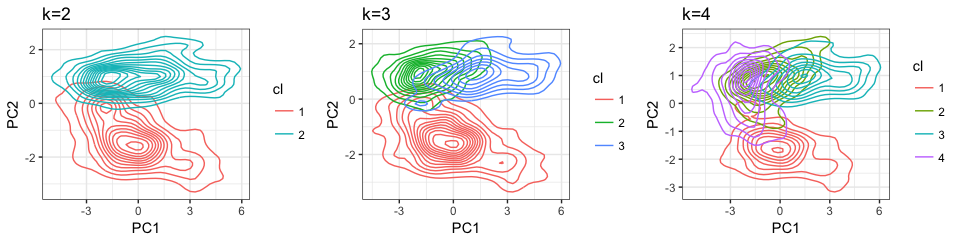
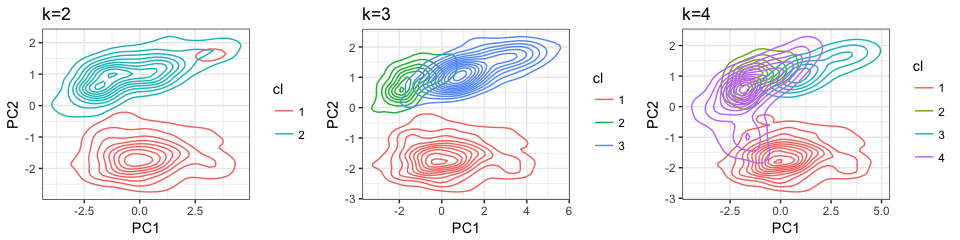
Checked merge success. Corrected a fe typos. Added theme_bw() to ggpolots to ensure consistency.

diff --git a/exploratory_cat_data_analysis.md b/exploratory_cat_data_analysis.md
@@ -11,7 +11,7 @@ Now that we've had a look at the data, and dived into the numerical analysis. Le
 Categorical variables
 ---------------------
 
-The transformation of the categorical varibles are enclosed in the **transform.R source** code. All Quality variables which had the same ordered levels that ranked the quality of the feature from None to Excellent were label encoded (maped to an integer representation) that reflected the order of the level. 0 = None, incrementally until 5 = Excellent. Additionally, there were varaibles that, by nature & definition, were ordered. These variables were also label encoded.
+The transformation of the categorical variables are enclosed in the **transform.R source** code. All Quality variables which had the same ordered levels that ranked the quality of the feature from None to Excellent were label encoded (maped to an integer representation) that reflected the order of the level. 0 = None, incrementally until 5 = Excellent. Additionally, there were varaibles that, by nature & definition, were ordered. These variables were also label encoded.
 
 After considering the NA values in the dataset, we also came across a feature that was overwhlemingly populated by a single level. The Utilities variable, as we'll see displayed all house, except one, having all public utilities. Thus, this variable doesn't offer much enrichment for Preditcion & therefore removed. (Removed in feature\_eng.R code).
 
@@ -19,25 +19,25 @@ After considering the NA values in the dataset, we also came across a feature th
     ## AllPub NoSeWa 
     ##   2916      1
 
-Visualization of Categorical Varibles (Boxplot)
------------------------------------------------
+Visualization of Categorical Variables (Boxplot)
+------------------------------------------------
 
 Let's visualize the boxplot of the categorical variables.
 
     ## Loading required package: grid
 
-![](exploratory_cat_data_analysis_files/figure-markdown_github/unnamed-chunk-2-1.png)
+![](exploratory_cat_data_analysis_files/figure-markdown_github-ascii_identifiers/unnamed-chunk-2-1.png)
 
 From the above graphs, there are definitely features that have similar shapes. However, there are also features that display significant variation and will be explored in more detail.
 
 When reading **data\_descr.txt** it is clear that some variables are highly correlated purely by definition. Let's explore those in detail and decide which to keep.
 
-Highly correlated by definition, results in the following 'grouped' variables: \* Property Variables: Street, Alley, LotShape, LandContour, LandSlope, LotConfig \* Dwelling/ Living Variables: BldgType, HouseStyle, MSSubClass, MSZoning, Neighborhood \* Utility: Utilities, Electrical \* Overall Quality & Condition: OverallQual, OverallCond, Functional \* Material of House: OverallQual, RoofMatl, Exterior1st, Exterior2nd, MasVnrType, ExterQual, ExterCond, Foundation \* Roof: RoofStyle, RoofMatl \* Basement: BsmtQual, BsmtCond, BsmtExposure, BsmtFinType1, BsmtFinType2 \* Heating: Heating, HeatingQC, CentralAir, FireplaceQu \* Garage: GarageType, GarageFinish, GarageQual, GarageCond, PavedDrive \* Misc: PoolQC, Fence, MiscFeature, KitchenQual \* Nature of Sale: SaleType, SaleCondition
+Highly correlated by definition, results in the following 'grouped' variables: *Property Variables: Street, Alley, LotShape, LandContour, LandSlope, LotConfig *Dwelling/ Living Variables: BldgType, HouseStyle, MSSubClass, MSZoning, Neighborhood *Utility: Utilities, Electrical *Overall Quality & Condition: OverallQual, OverallCond, Functional *Material of House: OverallQual, RoofMatl, Exterior1st, Exterior2nd, MasVnrType, ExterQual, ExterCond, Foundation *Roof: RoofStyle, RoofMatl *Basement: BsmtQual, BsmtCond, BsmtExposure, BsmtFinType1, BsmtFinType2 *Heating: Heating, HeatingQC, CentralAir, FireplaceQu *Garage: GarageType, GarageFinish, GarageQual, GarageCond, PavedDrive *Misc: PoolQC, Fence, MiscFeature, KitchenQual \*Nature of Sale: SaleType, SaleCondition
 
 Correlation of Label Encoded Features
 -------------------------------------
 
-Once varaiables had been label encoded, we could develop a Correlation Matrix to display the relationship between these variables.
+Once variables had been label encoded, we could develop a Correlation Matrix to display the relationship between these variables.
 
     ##        set_id            Id    MSSubClass      MSZoning   LotFrontage 
     ##             0             0             0             4           486 
@@ -76,7 +76,7 @@ Once varaiables had been label encoded, we could develop a Correlation Matrix to
 
     ## [1] 1460   21
 
-![](exploratory_cat_data_analysis_files/figure-markdown_github/unnamed-chunk-3-1.png)
+![](exploratory_cat_data_analysis_files/figure-markdown_github-ascii_identifiers/unnamed-chunk-3-1.png)
 
 From the above correlations, we can see a number of features which are strongly correlated to eachother. It seems to be a trend (intuitively) that the Quality and Condition of a feature show strong relationships. On top of that, we can see that BsmtQual had a strong relationship to KitchenQual, and ExterQual show significant relationships to BsmtQual, HeatingQC, KitchenQual, GarageFinish. We'll explore these relationships below.
 
@@ -91,7 +91,7 @@ Let's visualize these relationships:
     ## 
     ##     combine
 
-![](exploratory_cat_data_analysis_files/figure-markdown_github/unnamed-chunk-4-1.png)
+![](exploratory_cat_data_analysis_files/figure-markdown_github-ascii_identifiers/unnamed-chunk-4-1.png)
 
 From the above graphs, we can see a very clear and strong postive linear relationship between the feature and SalesPrice.
 
@@ -105,7 +105,7 @@ To further explore the relationships between 2 categorical features, we will loo
     ##         xName          yName Nx Ny tauxy tauyx
     ## 1 df$BsmtQual df$KitchenQual  5  5 0.252 0.217
 
-From the above table, we can see that there is an equal predictive relationship between these to features. But seems to hint that knowledge of the BsmtQual is predictive (more so) of the KitchenQual - however, not significantly enough to throw away either.
+From the above table, we can see that there is an equal predictive relationship between these two features. But seems to hint that knowledge of the BsmtQual is predictive (more so) of the KitchenQual - however, not significantly enough to throw away either.
 
     ##          xName       yName Nx Ny tauxy tauyx
     ## 1 df$ExterQual df$BsmtQual  4  5 0.267 0.354
@@ -124,9 +124,9 @@ A surprising relationship is that of ExterQual to KitchenQual.
 Feature Importance: Random Forest
 ---------------------------------
 
-Let's look at a Random Forest model that will highlight the importnat features taht form part of our dataset, and potentially inform our prediction models.
+Let's look at a Random Forest model that will highlight the important features that form part of our dataset, and potentially inform our prediction models.
 
-    ## randomForest 4.6-12
+    ## randomForest 4.6-14
 
     ## Type rfNews() to see new features/changes/bug fixes.
 
@@ -145,85 +145,85 @@ Let's look at a Random Forest model that will highlight the importnat features t
     ## 
     ##     margin
 
-![](exploratory_cat_data_analysis_files/figure-markdown_github/unnamed-chunk-7-1.png)
+![](exploratory_cat_data_analysis_files/figure-markdown_github-ascii_identifiers/unnamed-chunk-7-1.png)
 
     ##                  %IncMSE IncNodePurity
     ## set_id         0.0000000  0.000000e+00
-    ## Id            -3.1998269  1.539335e-01
-    ## MSSubClass    25.2818078  9.575999e-01
-    ## MSZoning       7.3779648  2.015324e-01
-    ## LotArea       16.8485023  5.270363e-01
-    ## Street        -0.1417445  3.034545e-03
-    ## Alley          1.0099072  2.530234e-02
-    ## LotShape       4.2051144  4.250637e-02
-    ## LandContour    3.5905865  4.865746e-02
-    ## Utilities      0.0000000  7.620959e-05
-    ## LotConfig      0.7733765  4.500417e-02
-    ## LandSlope      3.0722900  2.380855e-02
-    ## Neighborhood  33.5387965  6.043275e+00
-    ## Condition1     1.3521792  5.921048e-02
-    ## Condition2    -1.8089661  5.282765e-03
-    ## BldgType       5.1989742  3.639135e-02
-    ## HouseStyle     9.5126045  1.027178e-01
-    ## OverallQual   25.4902774  9.468594e+00
-    ## OverallCond   12.1645849  3.057212e-01
-    ## YearBuilt     10.4193034  1.329869e+00
-    ## YearRemodAdd  13.8921416  3.270326e-01
-    ## RoofStyle      4.7264317  4.399700e-02
-    ## RoofMatl      -1.0818364  1.158568e-02
-    ## Exterior1st   10.5750154  3.113297e-01
-    ## Exterior2nd   10.8814955  3.234202e-01
-    ## ExterQual     12.2109684  3.438109e+00
-    ## ExterCond      1.6275814  6.928481e-02
-    ## Foundation     4.2013747  1.373012e-01
-    ## BsmtQual       7.5507319  8.213978e-01
-    ## BsmtCond       7.4539367  7.613410e-02
-    ## BsmtExposure   8.1729894  7.334197e-02
-    ## BsmtFinType1  13.6084328  1.466863e-01
-    ## BsmtFinSF1    20.6977131  6.387216e-01
-    ## BsmtFinType2   0.7154489  2.808221e-02
-    ## BsmtFinSF2    -0.1261153  2.164319e-02
-    ## BsmtUnfSF      8.2819855  1.978614e-01
-    ## TotalBsmtSF   24.9647928  1.487479e+00
-    ## Heating       -1.3910126  1.807560e-02
-    ## HeatingQC      6.3755307  7.962922e-02
-    ## CentralAir     7.6118287  3.529941e-01
-    ## x_1stFlrSF    25.5348777  1.405099e+00
-    ## x_2ndFlrSF    17.4078308  5.214011e-01
-    ## LowQualFinSF  -0.3633982  8.676180e-03
-    ## GrLivArea     33.4175965  5.136228e+00
-    ## BsmtFullBath   8.9385243  6.515627e-02
-    ## BsmtHalfBath   0.1444322  9.021967e-03
-    ## FullBath       8.7722802  6.254118e-01
-    ## HalfBath       6.5820213  4.182964e-02
-    ## BedroomAbvGr   8.5102546  1.150008e-01
-    ## KitchenAbvGr   3.6884119  2.104526e-02
-    ## KitchenQual    9.5154799  1.657880e+00
-    ## TotRmsAbvGrd  11.2923105  2.422569e-01
-    ## Functional     1.4504506  4.999354e-02
-    ## Fireplaces     9.4080826  2.737999e-01
-    ## FireplaceQu   12.7584899  5.346423e-01
-    ## GarageType     9.0630950  4.240587e-01
-    ## GarageFinish   7.6363639  3.448989e-01
-    ## GarageCars    13.9047968  1.613512e+00
-    ## GarageArea    19.6843393  1.345791e+00
-    ## GarageQual     5.6430140  8.135672e-02
-    ## GarageCond     3.0679527  9.639585e-02
-    ## PavedDrive     0.7817286  4.779045e-02
-    ## WoodDeckSF     6.4346986  1.083237e-01
-    ## OpenPorchSF    8.0461485  1.901639e-01
-    ## EnclosedPorch  1.7686782  6.199440e-02
-    ## x_3SsnPorch   -0.8099499  5.616065e-03
-    ## ScreenPorch    3.0132832  2.573014e-02
-    ## PoolArea      -1.5929528  4.492253e-03
-    ## PoolQC         1.2952494  2.380775e-03
-    ## Fence          1.5945421  3.182652e-02
-    ## MiscFeature   -0.2000814  7.664173e-03
-    ## MiscVal        1.0966673  8.898390e-03
-    ## MoSold         0.8437230  1.297192e-01
-    ## YrSold         0.6353292  6.436661e-02
-    ## SaleType       1.2629704  3.838760e-02
-    ## SaleCondition  0.8228356  1.256077e-01
+    ## Id            -0.2295387  1.548827e-01
+    ## MSSubClass    24.7006491  9.238635e-01
+    ## MSZoning       9.1805534  2.176460e-01
+    ## LotArea       19.1723641  5.317503e-01
+    ## Street        -1.4103309  3.773289e-03
+    ## Alley          1.6955427  2.742265e-02
+    ## LotShape       5.4542197  4.069892e-02
+    ## LandContour    3.6935283  5.962471e-02
+    ## Utilities      0.0000000  6.075822e-04
+    ## LotConfig      0.8003341  4.204032e-02
+    ## LandSlope      3.1243847  2.528968e-02
+    ## Neighborhood  33.0162194  6.704076e+00
+    ## Condition1     2.2524630  5.785015e-02
+    ## Condition2    -0.8467243  6.225906e-03
+    ## BldgType       7.1014352  3.958928e-02
+    ## HouseStyle    10.2909754  9.626345e-02
+    ## OverallQual   26.9551421  1.048070e+01
+    ## OverallCond   16.2071488  3.262616e-01
+    ## YearBuilt     10.8530523  1.162783e+00
+    ## YearRemodAdd  12.6213490  3.499204e-01
+    ## RoofStyle      2.2238683  4.699960e-02
+    ## RoofMatl       0.1366940  1.433382e-02
+    ## Exterior1st    9.0140572  3.167001e-01
+    ## Exterior2nd   10.2153710  3.226340e-01
+    ## ExterQual     11.6889162  3.208737e+00
+    ## ExterCond      2.5335546  6.906112e-02
+    ## Foundation     5.8796696  6.053008e-02
+    ## BsmtQual       7.5697608  7.097205e-01
+    ## BsmtCond       7.7528229  7.224474e-02
+    ## BsmtExposure   8.7367669  8.061753e-02
+    ## BsmtFinType1  14.0256362  1.685725e-01
+    ## BsmtFinSF1    22.4468990  6.231602e-01
+    ## BsmtFinType2   0.6739879  2.402135e-02
+    ## BsmtFinSF2     2.0753534  2.253327e-02
+    ## BsmtUnfSF      9.7344819  2.036915e-01
+    ## TotalBsmtSF   27.2735855  1.446216e+00
+    ## Heating       -2.6772748  2.041336e-02
+    ## HeatingQC      3.4315956  7.941516e-02
+    ## CentralAir     6.7518543  3.756008e-01
+    ## x_1stFlrSF    22.7595166  1.348306e+00
+    ## x_2ndFlrSF    17.3880317  4.973422e-01
+    ## LowQualFinSF  -0.3463479  1.068361e-02
+    ## GrLivArea     38.1029519  4.940502e+00
+    ## BsmtFullBath  10.2791991  6.127619e-02
+    ## BsmtHalfBath   1.7554944  9.573142e-03
+    ## FullBath       8.5767149  3.843413e-01
+    ## HalfBath       8.5735222  4.737874e-02
+    ## BedroomAbvGr   9.2348528  1.090029e-01
+    ## KitchenAbvGr   4.1817714  1.619542e-02
+    ## KitchenQual    8.9223292  1.258524e+00
+    ## TotRmsAbvGrd  12.0293521  2.661983e-01
+    ## Functional     2.5248404  4.984730e-02
+    ## Fireplaces     9.0317967  2.700250e-01
+    ## FireplaceQu   12.4446886  5.011678e-01
+    ## GarageType    12.1129917  3.752428e-01
+    ## GarageFinish   8.1402466  2.763453e-01
+    ## GarageCars    15.9537547  1.491877e+00
+    ## GarageArea    18.6688848  1.471223e+00
+    ## GarageQual     4.8809810  8.580358e-02
+    ## GarageCond     3.8531678  9.369903e-02
+    ## PavedDrive     2.8542121  3.801349e-02
+    ## WoodDeckSF     6.3921538  1.127992e-01
+    ## OpenPorchSF    9.2465319  1.881850e-01
+    ## EnclosedPorch  1.7395513  6.111238e-02
+    ## x_3SsnPorch    1.3082772  5.134175e-03
+    ## ScreenPorch    4.3925704  2.785632e-02
+    ## PoolArea       1.0010015  2.695676e-03
+    ## PoolQC        -1.0505044  1.483834e-03
+    ## Fence          0.3172713  2.780403e-02
+    ## MiscFeature   -0.8857804  6.893715e-03
+    ## MiscVal        2.0683666  6.846851e-03
+    ## MoSold         2.1077085  1.321873e-01
+    ## YrSold         2.8091886  6.365697e-02
+    ## SaleType       1.8484367  3.785968e-02
+    ## SaleCondition -0.2345705  1.267182e-01
 
 Considering non-ordinal categorical features
 --------------------------------------------
@@ -245,11 +245,13 @@ Neighborhood
 
 One of the features I'm particularly interested in is the Neighborhood. From intuition, I know that neighborhood plays a pretty important role when someone is considering buying a house. More favourable Neighborhoods are likely to have higher SalePrices. Conversely, more popular neighborhoods could also mean cheaper SalesPrices.
 
-![](exploratory_cat_data_analysis_files/figure-markdown_github/unnamed-chunk-10-1.png) From the above graph, we can see that NAmes and CollgCr are the most 'popular' neighborhoods (higher count). NAmes seems to have some variance that can't be ignored. Popularity could be dependant on many things, firstly it could be the price. Ie. Houses which are more affordable are more popular, additionally it could be based on the actual area of the neighborhood.
+![](exploratory_cat_data_analysis_files/figure-markdown_github-ascii_identifiers/unnamed-chunk-10-1.png)
+
+From the above graph, we can see that NAmes and CollgCr are the most 'popular' neighborhoods (higher count). NAmes seems to have some variance that can't be ignored. Popularity could be dependant on many things, firstly it could be the price. Ie. Houses which are more affordable are more popular, additionally it could be based on the actual area of the neighborhood.
 
 Let's sort the neighborhood by highest median price. Reason to use median is to be less influenced by outliers of which there appear to be many in Neighborhood. In doing so, we hope to uncover some binning opportunities due to the fact that there are so many levels in Neighborhood.
 
-![](exploratory_cat_data_analysis_files/figure-markdown_github/unnamed-chunk-11-1.png)
+![](exploratory_cat_data_analysis_files/figure-markdown_github-ascii_identifiers/unnamed-chunk-11-1.png)
 
 From the above graph, we can see that we could explore potential binning of neighborhood. We've binned Neighborhood into 5 respective buckets, based on the median SalesPrice - see the results of the feature below.
 
@@ -262,9 +264,13 @@ MSSubClass
 
 Let's explore MSSubClass to determine if we unlock anything interesting.
 
-![](exploratory_cat_data_analysis_files/figure-markdown_github/unnamed-chunk-13-1.png) Comparing to Mean Price
+![](exploratory_cat_data_analysis_files/figure-markdown_github-ascii_identifiers/unnamed-chunk-13-1.png)
 
-![](exploratory_cat_data_analysis_files/figure-markdown_github/unnamed-chunk-14-1.png) Similarily, let's bin MSSubClass.
+Comparing to Mean Price
+
+![](exploratory_cat_data_analysis_files/figure-markdown_github-ascii_identifiers/unnamed-chunk-14-1.png)
+
+Similarily, let's bin MSSubClass.
 
 Top MSSubClasses = 2-STORY 1946 & NEWER 1-STORY PUD (Planned Unit Development) - 1946 & NEWER 2-1/2 STORY ALL AGES 1-STORY 1946 & NEWER ALL STYLES
 

diff --git a/exploratory_num_data_analysis.md b/exploratory_num_data_analysis.md
@@ -1,4 +1,4 @@
-project ivy: House Prices (Kaggle) - EDA
+project ivy: House Prices (Kaggle) - EDA (Numerical)
 ================
 
 Overview
@@ -101,7 +101,7 @@ During the iterative process of modelling we have engineered a few features. Som
 -   **cred\_bubble** = as.factor(ifelse(**YrSold** &lt; 2008, '1', '2'))
 -   **PC1**: This is the first principal component as a result of performing PCA on all numeric/integer variables. We isolated all principal components where the correlation with **SalePriceLog** is &gt;.75 and added these are feature variables.
 
-As stated earlier there are two clusters of points that can be identified when looking at the scatterplots for **rat\_Lot\_1stFlr** & **rat\_garag\_land**. It is also interesting to note the strong linear relationship betwee **PC1** and **SalePrice**
+As stated earlier there are two clusters of points that can be identified when looking at the scatterplots for **rat\_Lot\_1stFlr** & **rat\_garag\_land**. It is also interesting to note the strong linear relationship between **PC1** and **SalePrice**
 
 ![](exploratory_num_data_analysis_files/figure-markdown_github-ascii_identifiers/unnamed-chunk-6-1.png)
 
@@ -111,7 +111,7 @@ As stated earlier there are two clusters of points that can be identified when l
 
 It would make sense that bigger houses are more expensive. As a first go at clustering this data set we take area related variables and assess the impact of area on **SalePrice**. Because we know that there are multiple outliers in the data we will use the k-medoids algorithm rather than k-means.
 
-    ## [1] "Hopkins statistic: 0.911098"
+    ## [1] "Hopkins statistic: 0.928097"
 
 ![](exploratory_num_data_analysis_files/figure-markdown_github-ascii_identifiers/unnamed-chunk-9-1.png) The Hopkins statistic suggest that the data is highly clusterable. Visual inspection is less positive with Spearman showing the most promise.
 
@@ -140,62 +140,62 @@ To validate the clusters we use a silhouette plot. The silhouette plot displays 
     ## # A tibble: 2 x 3
     ##   cl2        mu     sd
     ##   <fct>   <dbl>  <dbl>
-    ## 1 1     187245. 84269.
-    ## 2 2     175847. 75014.
+    ## 1 1     203199. 86973.
+    ## 2 2     163870. 68472.
 
     ## # A tibble: 3 x 3
     ##   cl3        mu     sd
     ##   <fct>   <dbl>  <dbl>
-    ## 1 1     190654. 77673.
-    ## 2 2     136276. 38718.
-    ## 3 3     230613. 90701.
+    ## 1 1     195064. 80283.
+    ## 2 2     130695. 32414.
+    ## 3 3     231606. 84890.
 
     ## # A tibble: 4 x 3
     ##   cl4        mu     sd
     ##   <fct>   <dbl>  <dbl>
-    ## 1 1     202615. 74617.
-    ## 2 2     148644. 41797.
-    ## 3 3     239326. 89333.
-    ## 4 4     128497. 50210.
+    ## 1 1     202280. 83230.
+    ## 2 2     135484. 30498.
+    ## 3 3     246743. 80507.
+    ## 4 4     133105. 40999.
 
 Even though **k**=2 looks like the best cluster to use, it unfortunately does not add any value in terms of discriminating **SalePriceLog** as can be seen by the density plots of **SalePriceLog** grouped by clusters. Maybe we should try hierarchical clustering?
 
     ## $centroid
-    ## [1] 0.6095305
+    ## [1] 0.7105051
     ## 
     ## $ward.D2
-    ## [1] 0.5559533
+    ## [1] 0.6861892
     ## 
     ## $single
-    ## [1] 0.06430322
+    ## [1] 0.06590097
     ## 
     ## $average
-    ## [1] 0.6375944
+    ## [1] 0.7234951
     ## 
     ## $complete
-    ## [1] 0.4967888
+    ## [1] 0.5711336
 
 The correlation coefficient shows that using the average method gave the closest fit to the original data. ![](exploratory_num_data_analysis_files/figure-markdown_github-ascii_identifiers/unnamed-chunk-18-1.png)
 
-    ## # A tibble: 3 x 3
+    ## # A tibble: 2 x 3
     ##   cl2        mu     sd
     ##   <fct>   <dbl>  <dbl>
-    ## 1 1     186352. 82045.
-    ## 2 2     218989. 79010.
-    ## 3 3     137206. 49421.
+    ## 1 1     197220. 85051.
+    ## 2 2     169710. 73317.
 
     ## # A tibble: 3 x 3
     ##   cl3        mu     sd
     ##   <fct>   <dbl>  <dbl>
-    ## 1 1     186352. 82045.
-    ## 2 2     218989. 79010.
-    ## 3 3     137206. 49421.
+    ## 1 1     197220. 85051.
+    ## 2 2     222115. 77314.
+    ## 3 3     130723. 36990.
 
-    ## # A tibble: 3 x 3
-    ##   cl4        mu     sd
-    ##   <fct>   <dbl>  <dbl>
-    ## 1 1     186352. 82045.
-    ## 2 2     218989. 79010.
-    ## 3 3     137206. 49421.
+    ## # A tibble: 4 x 3
+    ##   cl4        mu      sd
+    ##   <fct>   <dbl>   <dbl>
+    ## 1 1     196138.  82378.
+    ## 2 2     222115.  77314.
+    ## 3 3     130723.  36990.
+    ## 4 4     288139. 206072.
 
 Again, hierarchical cluster also doesn't assist in discriminating **SalePriceLog**.
